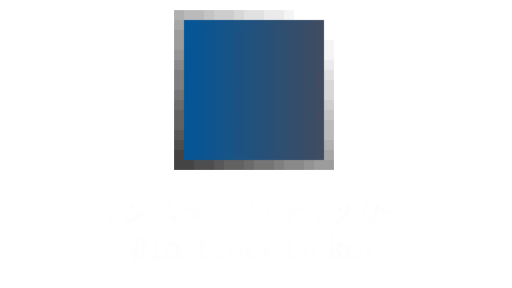
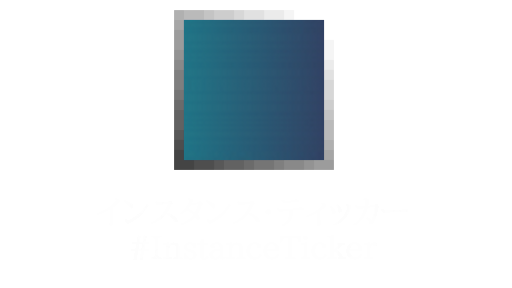
バージョンの制定と画像が適切でなかったので差し替え。

Changed region(s): [[0.3438, 0.0625, 0.4062, 0.5625], [0.5938, 0.0625, 0.625, 0.0938]]

diff --git a/public_html/index.php b/public_html/index.php
@@ -1,8 +1,9 @@
 <?php
+
 //
-// #InstanceTicker 
+// #InstanceTicker v.0.4.1 (2023-01-17)
 // /index.php
-// (C)2022 weepjp. Released under the MIT license.
+// (C)2018-2023 weepjp. Released under the MIT license.
 // https://github.com/InstanceTicker/InstanceTicker/
 //
 
